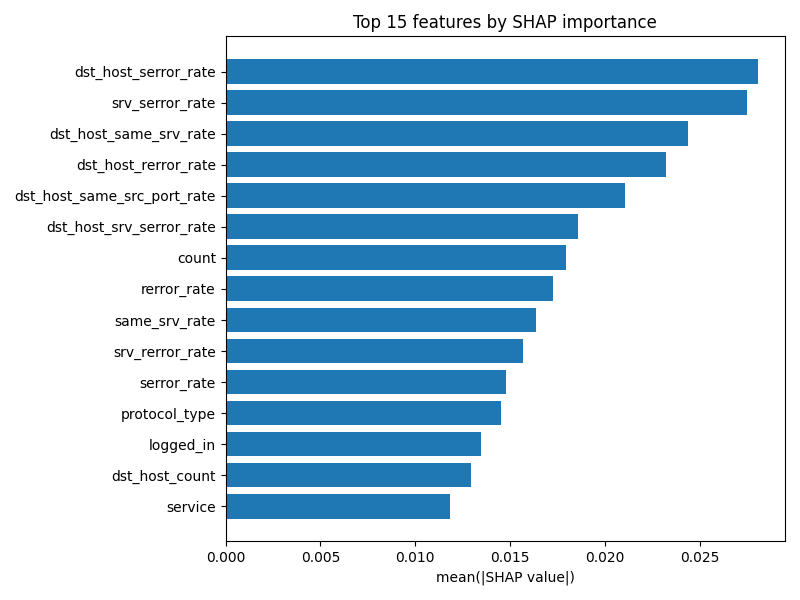
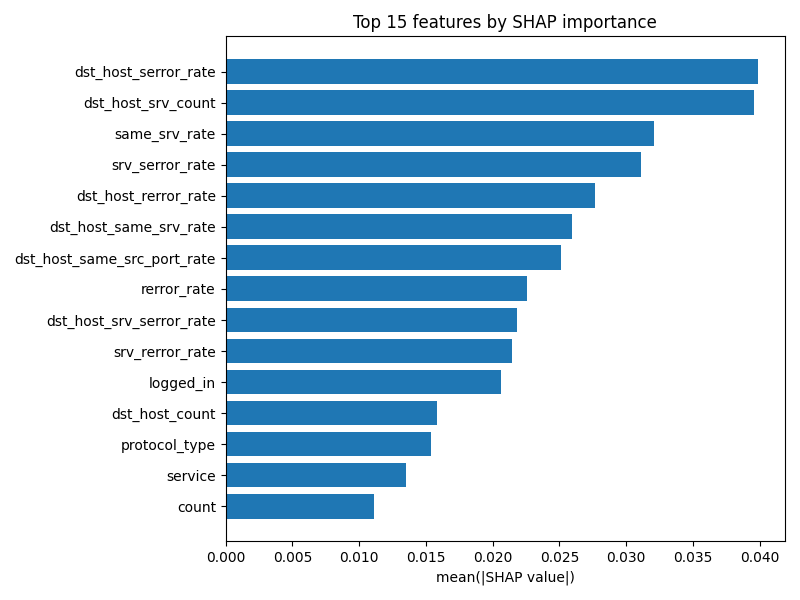
feat: add per-class SHAP/adversarial breakdowns and a confusion-matrix heatmap
evaluate.py now saves a labelled confusion-matrix heatmap instead of only
printing the raw matrix. explain.py adds a per-class top-10 SHAP importance
plot alongside the existing global one. adversarial.py adds per-class
accuracy curves for FGSM/PGD across epsilons, showing r2l/u2r collapse much
faster than dos/normal/probe under attack.

Also drop the stale raw_results.txt (pasted output from an older,
single-conv-layer model architecture that no longer matches model.py) and
the unused imbalanced-learn dependency left over from the reverted SMOTE
experiment.

diff --git a/src/adversarial.py b/src/adversarial.py
@@ -1,3 +1,4 @@
+import joblib
 import numpy as np
 import tensorflow as tf
 import matplotlib.pyplot as plt
@@ -10,6 +11,8 @@ PGD_STEPS = 10
 
 X_test = np.load("data/X_test.npy").astype("float32")[:N_SAMPLES]
 y_test = np.load("data/y_test.npy")[:N_SAMPLES]
+target_names = joblib.load("data/label_encoder.pkl").classes_.tolist()
+n_classes = len(target_names)
 model = load_model("models/Model.keras")
 loss_fn = SparseCategoricalCrossentropy()
 
@@ -39,19 +42,33 @@ def pgd_attack(x, y, epsilon, steps=PGD_STEPS):
     return x_adv
 
 
-def accuracy(x):
-    preds = model.predict(x, verbose=0)
-    return float((preds.argmax(axis=1) == y_test).mean())
+def accuracy_from_preds(preds, y_true):
+    return float((preds.argmax(axis=1) == y_true).mean())
+
+
+def per_class_accuracy(preds, y_true, n_classes):
+    correct = preds.argmax(axis=1) == y_true
+    return np.array([
+        correct[y_true == c].mean() if (y_true == c).any() else np.nan
+        for c in range(n_classes)
+    ])
 
 
 fgsm_acc, pgd_acc = [], []
-for epsilon in EPSILONS:
+fgsm_per_class = np.zeros((len(EPSILONS), n_classes))
+pgd_per_class = np.zeros((len(EPSILONS), n_classes))
+
+for idx, epsilon in enumerate(EPSILONS):
     if epsilon == 0.0:
-        fgsm_acc.append(accuracy(X_test))
-        pgd_acc.append(fgsm_acc[-1])
-        continue
-    fgsm_acc.append(accuracy(fgsm_attack(X_test, y_test, epsilon).numpy()))
-    pgd_acc.append(accuracy(pgd_attack(X_test, y_test, epsilon).numpy()))
+        fgsm_preds = pgd_preds = model.predict(X_test, verbose=0)
+    else:
+        fgsm_preds = model.predict(fgsm_attack(X_test, y_test, epsilon).numpy(), verbose=0)
+        pgd_preds = model.predict(pgd_attack(X_test, y_test, epsilon).numpy(), verbose=0)
+
+    fgsm_acc.append(accuracy_from_preds(fgsm_preds, y_test))
+    pgd_acc.append(accuracy_from_preds(pgd_preds, y_test))
+    fgsm_per_class[idx] = per_class_accuracy(fgsm_preds, y_test, n_classes)
+    pgd_per_class[idx] = per_class_accuracy(pgd_preds, y_test, n_classes)
     print(f"epsilon={epsilon}: FGSM acc={fgsm_acc[-1]:.3f}  PGD acc={pgd_acc[-1]:.3f}")
 
 plt.figure(figsize=(6, 5))
@@ -64,3 +81,18 @@ plt.legend()
 plt.tight_layout()
 plt.savefig('Results/adversarial_robustness.png')
 print("Saved adversarial robustness plot to Results/adversarial_robustness.png")
+
+fig, axes = plt.subplots(1, 2, figsize=(12, 5), sharey=True)
+for ax, per_class, title in [
+    (axes[0], fgsm_per_class, 'FGSM'),
+    (axes[1], pgd_per_class, f'PGD ({PGD_STEPS} steps)'),
+]:
+    for c, name in enumerate(target_names):
+        ax.plot(EPSILONS, per_class[:, c], 'o-', label=name)
+    ax.set_xlabel('epsilon (L-inf perturbation)')
+    ax.set_title(title)
+axes[0].set_ylabel('per-class accuracy')
+axes[1].legend(loc='center left', bbox_to_anchor=(1.0, 0.5))
+plt.tight_layout()
+plt.savefig('Results/adversarial_per_class.png')
+print("Saved per-class adversarial accuracy plot to Results/adversarial_per_class.png")

diff --git a/src/explain.py b/src/explain.py
@@ -6,6 +6,7 @@ from tensorflow.keras.models import load_model
 
 feature_names = joblib.load("data/feature_names.pkl")
 n_features = len(feature_names)
+target_names = joblib.load("data/label_encoder.pkl").classes_.tolist()
 
 X_test = np.load("data/X_test.npy").reshape(-1, n_features)
 X_train = np.load("data/X_train.npy").reshape(-1, n_features)
@@ -37,3 +38,18 @@ print("Saved SHAP summary to Results/shap_summary.png")
 
 for i in order:
     print(f"{feature_names[i]}: {importance[i]:.4f}")
+
+# Per-class breakdown: mean |SHAP value| across samples only, keeping the
+# class axis, so each class gets its own top-feature ranking.
+per_class_importance = np.abs(shap_values.values).mean(axis=0)  # (n_features, n_classes)
+
+fig, axes = plt.subplots(1, len(target_names), figsize=(4 * len(target_names), 6))
+for ci, cls in enumerate(target_names):
+    order_c = np.argsort(per_class_importance[:, ci])[::-1][:10]
+    ax = axes[ci]
+    ax.barh([feature_names[i] for i in order_c][::-1], per_class_importance[order_c, ci][::-1])
+    ax.set_title(cls)
+    ax.set_xlabel("mean(|SHAP value|)")
+plt.tight_layout()
+plt.savefig("Results/shap_per_class.png")
+print("Saved per-class SHAP importance to Results/shap_per_class.png")

diff --git a/src/evaluate.py b/src/evaluate.py
@@ -4,7 +4,7 @@ import json
 import numpy as np
 import matplotlib.pyplot as plt
 from tensorflow.keras.models import load_model
-from sklearn.metrics import confusion_matrix, classification_report
+from sklearn.metrics import confusion_matrix, classification_report, ConfusionMatrixDisplay
 
 parser = argparse.ArgumentParser(description="Evaluate a saved IDS model on the test set")
 parser.add_argument("--model", default="Model", help="Model name under models/ to evaluate (default: Model)")
@@ -24,6 +24,16 @@ print("Confusion Matrix:")
 print(cm)
 print("Classification Report:")
 print(report)
+
+os.makedirs('Results', exist_ok=True)
+disp = ConfusionMatrixDisplay(confusion_matrix=cm, display_labels=target_names)
+fig, ax = plt.subplots(figsize=(6, 6))
+disp.plot(ax=ax, cmap='Blues', values_format='d', colorbar=False)
+plt.title('Confusion Matrix')
+plt.tight_layout()
+cm_path = os.path.join('Results', 'confusion_matrix.png')
+plt.savefig(cm_path)
+print(f"Saved confusion matrix to {cm_path}")
 
 # Load and plot training history if available
 history_path = os.path.join('Results', 'training_history.json')

diff --git a/README.md b/README.md
@@ -40,8 +40,9 @@ python src/evaluate.py     # confusion matrix, per-class report, training curves
   with clean data (see Results — this has a real caveat), and saves
   `models/Model.keras` plus `Results/training_history.json`.
 - `src/evaluate.py` — loads a saved model, prints a confusion matrix and
-  classification report against the held-out test set, and plots training
-  curves to `Results/evaluation_training_curves.png`.
+  classification report against the held-out test set, saves a labelled
+  confusion-matrix heatmap to `Results/confusion_matrix.png`, and plots
+  training curves to `Results/evaluation_training_curves.png`.
 - `src/predict.py` — runs the saved model + preprocessing artifacts against
   a CSV of raw, unlabeled NSL-KDD rows:
 
@@ -50,11 +51,13 @@ python src/evaluate.py     # confusion matrix, per-class report, training curves
   ```
 
 - `src/explain.py` — SHAP (model-agnostic `PermutationExplainer`) feature
-  importance on a sample of the test set, saved to
-  `Results/shap_summary.png`.
+  importance on a sample of the test set: a global top-15 plot saved to
+  `Results/shap_summary.png`, and a per-class top-10 breakdown saved to
+  `Results/shap_per_class.png`.
 - `src/adversarial.py` — FGSM and PGD (10-step) L-inf attacks against the
-  model over a range of epsilons, saved to
-  `Results/adversarial_robustness.png`.
+  model over a range of epsilons: overall accuracy saved to
+  `Results/adversarial_robustness.png`, and a per-class accuracy breakdown
+  saved to `Results/adversarial_per_class.png`.
 
 ## Results
 
